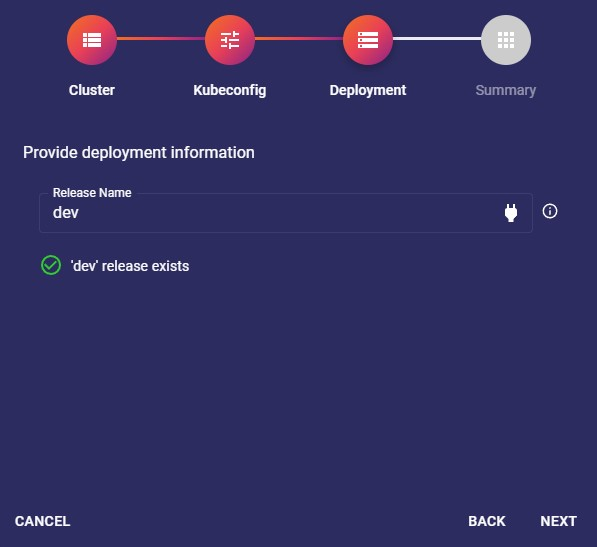
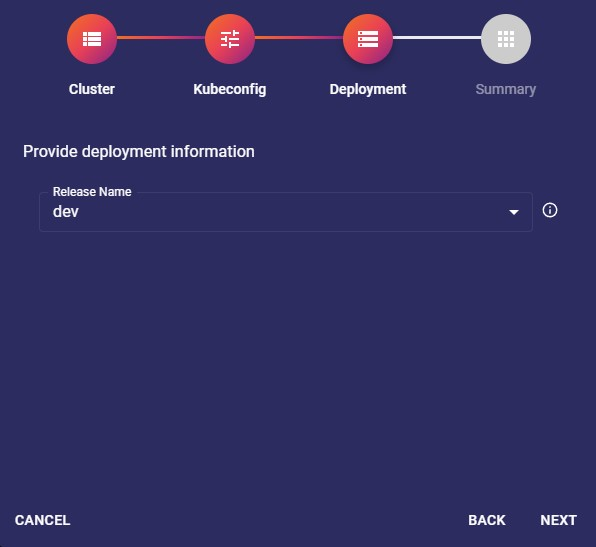
Changes for CC deployment wizard

diff --git a/docs/5_tutorials/2_ethereal_control_center/01_getting_started.md b/docs/5_tutorials/2_ethereal_control_center/01_getting_started.md
@@ -122,7 +122,7 @@ In this step, you will need to provide following information regarding desired c
 
 In this step, you will need to provide following deployment information:
 
-- **Deployment Name:** This is the name of your release in selected kubernetes deployment. It can be 'dev', 'prod', 'local', etc. You can use check release button to verify release name.
+- **Release Name:** This is the name of your release in selected kubernetes deployment. It can be 'dev', 'prod', 'local', etc.
   > Release name is used to prefix the workloads in your cluster like:
   `{RELEASE_NAME}-etherealengine-client`. i.e. `prod-etherealengine-client`
 
